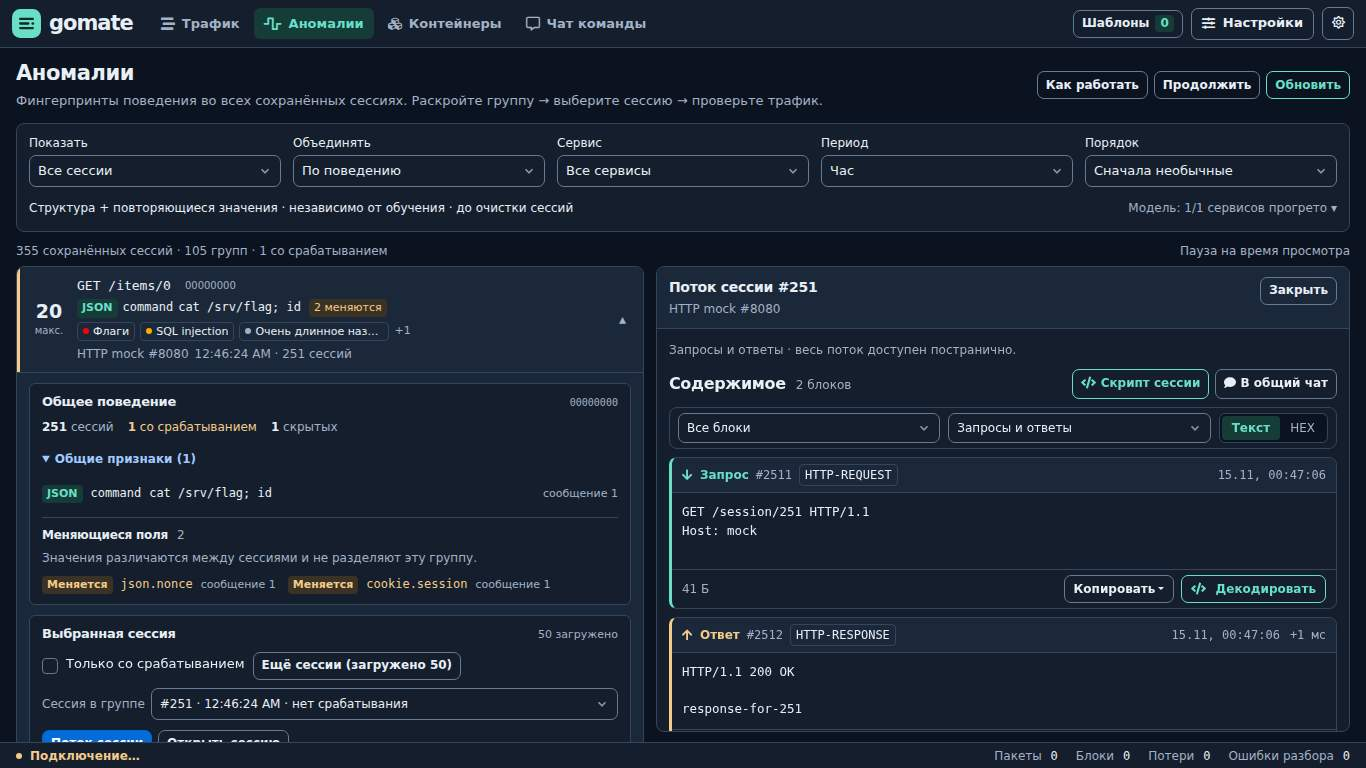
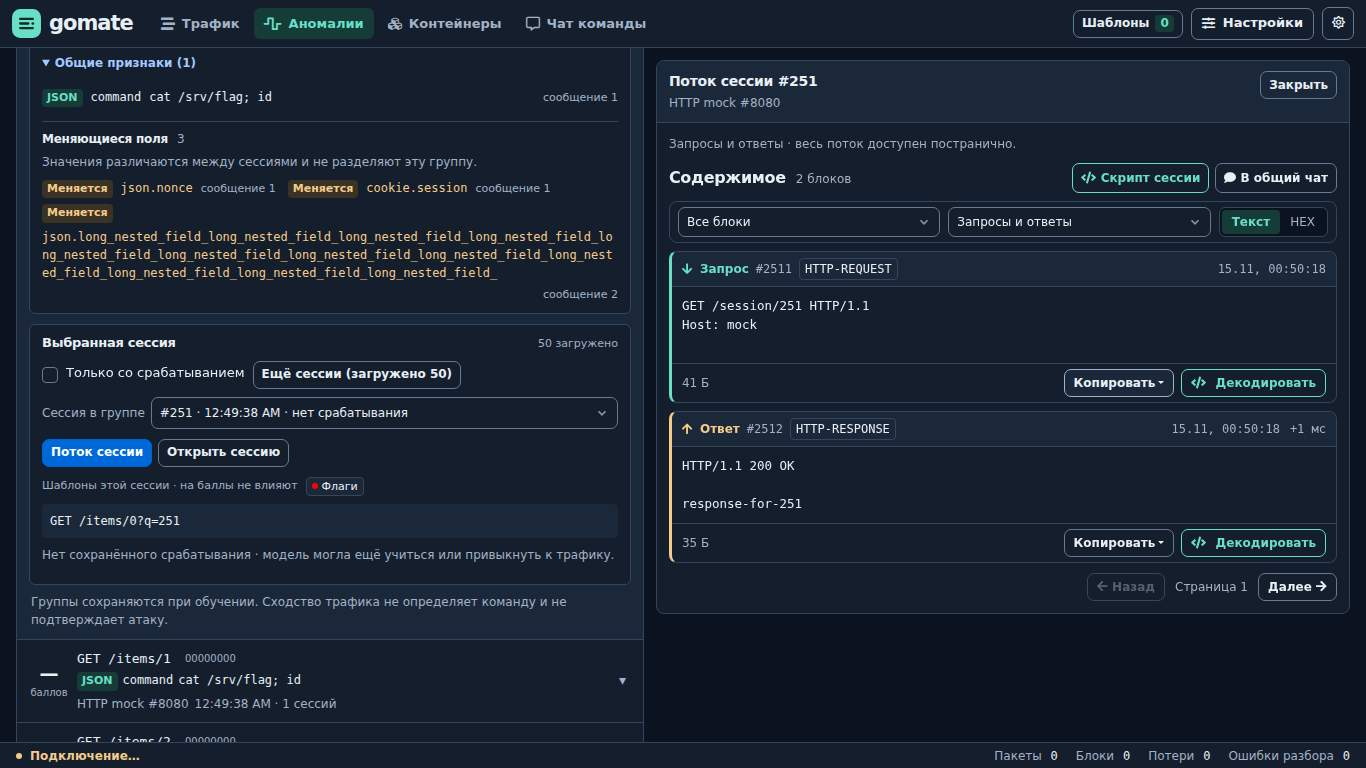
feat(anomalies): show wrapping variable field labels in previews

Changed region(s): [[0.0, 0.0625, 1.0, 0.9688], [0.3997, 0.5, 0.4612, 0.5312]]

diff --git a/web/src/views/Anomalies.vue b/web/src/views/Anomalies.vue
@@ -63,11 +63,12 @@
      <span class="anomaly-description">
       <span class="anomaly-title"><code :title="g.top.summary">{{ endpoint(g.top) }}</code><small v-if="g.fingerprint" class="fingerprint-id">{{ g.fingerprint.slice(0,8) }}</small><span v-if="g.top.dismissed" class="hidden-label">Скрыто</span></span>
       <span class="anomaly-reason-preview" :title="g.fingerprint ? behaviorPreview(g) : reasonPreview(g.top)">
-       <template v-if="g.fingerprint && !g.missing"><BehaviorFeature v-for="f in previewFields(g)" :key="f" :field="f" compact/><span v-if="!previewFields(g).length" class="preview-structure">Общая структура и значения</span><span v-if="g.variableFields?.length" class="preview-variable">{{ g.variableFields.length }} меняются</span></template>
+       <template v-if="g.fingerprint && !g.missing"><BehaviorFeature v-for="f in previewFields(g)" :key="f" :field="f" compact/><span v-if="!previewFields(g).length" class="preview-structure">Общая структура и значения</span></template>
        <span v-else-if="g.fingerprint">Нет сохранённых признаков поведения</span>
        <span v-else-if="scope==='all'">{{ g.anomalyCount }} со срабатыванием · {{ g.count-g.anomalyCount-g.dismissedCount }} без срабатывания</span>
        <template v-else><span v-if="g.top.reasons[0]" class="detector-tag" :class="detectorTone(g.top.reasons[0].detector)">{{ detectors[g.top.reasons[0].detector] || g.top.reasons[0].detector }}</span><span>{{ g.top.reasons[0]?.field }}{{ g.top.reasons[0]?.field ? ' · ' : '' }}{{ g.top.reasons[0]?.text || 'Раскройте для просмотра сессии' }}</span></template>
       </span>
+      <span v-if="g.fingerprint && !g.missing && g.variableFields?.length" class="anomaly-variable-preview"><span class="variable-preview-label">Меняются:</span><code v-for="f in g.variableFields" :key="f" class="variable-preview-tag">{{ f }}</code></span>
       <PatternLabels v-if="scope==='all'" :ids="g.foundPatternsIds" compact title="Шаблоны, найденные хотя бы в одной сессии группы"/>
      </span>
      <span class="anomaly-meta"><span>{{ serviceName(g.top.service) }}</span><span>{{ time(g.top.startTimestamp) }} · {{ scope==='all' ? g.count+' сессий' : g.items.length>1 ? g.items.length+' сессий' : '#'+g.top.streamId }}</span></span>
@@ -322,9 +323,12 @@ export default {
 .group-explanation{padding:0 2px}
 .reasons-heading{display:flex;justify-content:space-between;align-items:baseline;margin:14px 0 0}
 .detector-tag{display:inline-block;font-size:11px;font-weight:600;padding:1px 5px;border-radius:4px;flex-shrink:0}
-.tone-warning,.preview-variable{color:var(--gm-warning);background:var(--gm-warning-soft)}
+.tone-warning{color:var(--gm-warning);background:var(--gm-warning-soft)}
 .tone-info,.preview-structure{color:var(--gm-info);background:var(--gm-info-soft)}
-.preview-variable,.preview-structure{font-size:11px;border-radius:4px;padding:1px 5px;flex-shrink:0}
+.preview-structure{font-size:11px;border-radius:4px;padding:1px 5px;flex-shrink:0}
+.anomaly-variable-preview{display:flex;flex-wrap:wrap;align-items:baseline;gap:4px 6px;margin-top:5px;min-width:0;font-size:11px}
+.variable-preview-label{color:var(--gm-muted)}
+.variable-preview-tag{display:inline-block;max-width:100%;min-width:0;padding:1px 5px;border-radius:4px;font-size:11px;line-height:1.5;color:var(--gm-warning);background:var(--gm-warning-soft);white-space:normal;overflow-wrap:anywhere}
 
 .anomalies{max-width:1500px;margin:auto;padding-bottom:16px}
 .anomaly-header{display:flex;justify-content:space-between;align-items:center;gap:12px;margin-bottom:12px}

diff --git a/reports/ANOMALY.md b/reports/ANOMALY.md
@@ -368,7 +368,7 @@ SQL-соединение получает оставшийся бюджет API 
 
 ### Структура групп, поток справа и действия всей сессии — 15 ноября 2026
 
-Раскрытая группа разделена на «Общее поведение», «Меняющиеся поля», «Выбранная сессия» и причины оценки. Общие значения показаны отдельными строками с типом поля; JSON/форма/параметры, структура, метаданные и переменные поля различаются цветом и текстовой подписью. В превью остаются короткие признаки и лейблы шаблонов. Группировка, оценки и обучение не менялись.
+Раскрытая группа разделена на «Общее поведение», «Меняющиеся поля», «Выбранная сессия» и причины оценки. Общие значения показаны отдельными строками с типом поля; JSON/форма/параметры, структура, метаданные и переменные поля различаются цветом и текстовой подписью. В превью остаются короткие признаки и лейблы шаблонов; меняющиеся поля перечислены жёлтыми метками после подписи «Меняются:». Метки идут подряд с переносом, показывают полный путь поля и номер сообщения, длинные пути переносятся внутри метки. Если меняющихся полей нет, строка отсутствует. Группировка, оценки и обучение не менялись.
 
 Раскрытие группы показывает её карточку без автоматического открытия потока. Кнопка «Поток сессии» открывает независимую панель справа на широком экране или отдельное окно на экране уже 1200 px. Пока поток открыт, выбор другого участника меняет его содержимое, не уводя со страницы аномалий. Доступны оба направления, все страницы блоков, исходное/разобранное представление, HEX, декодирование, скачивание вложений и экспорт отдельных запросов. При раскрытии другой группы поток закрывается; старый запрос отменяется при смене или закрытии сессии.
 
